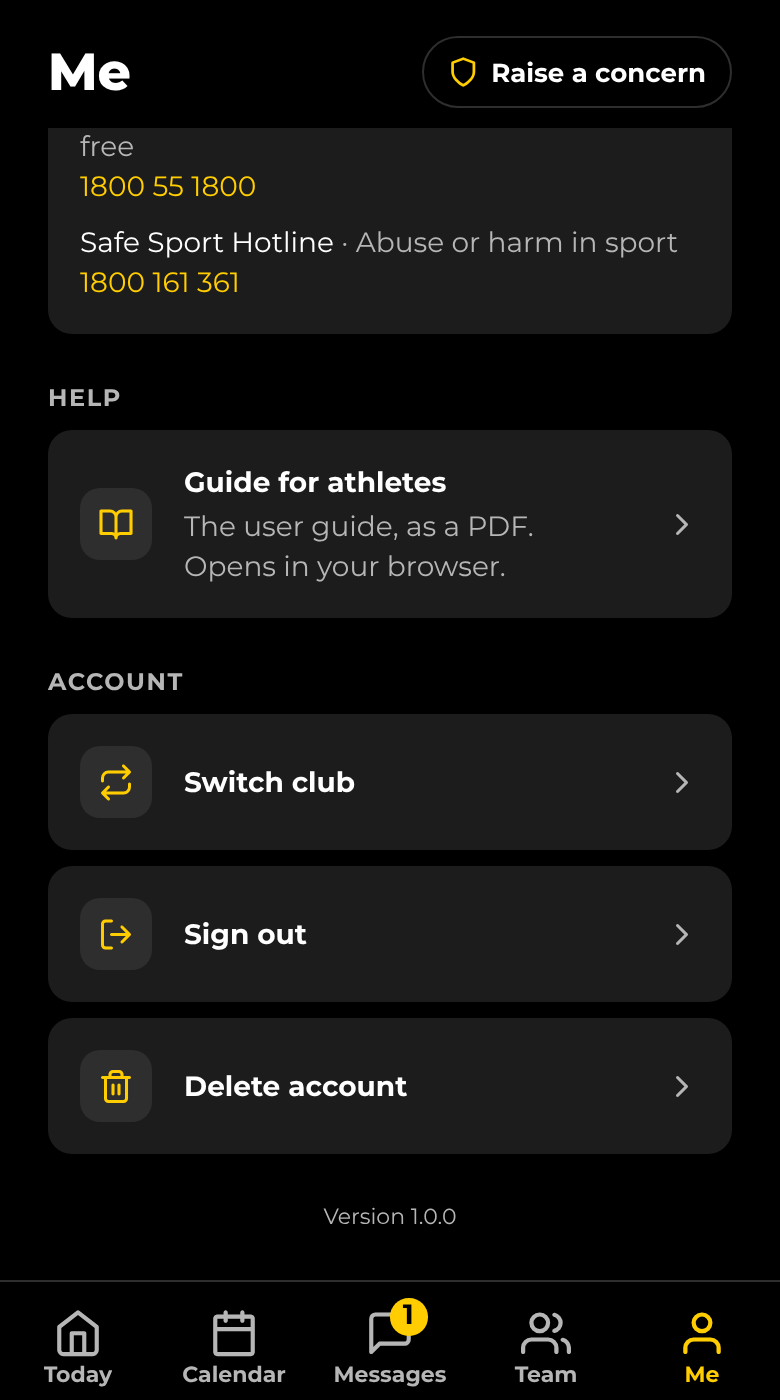
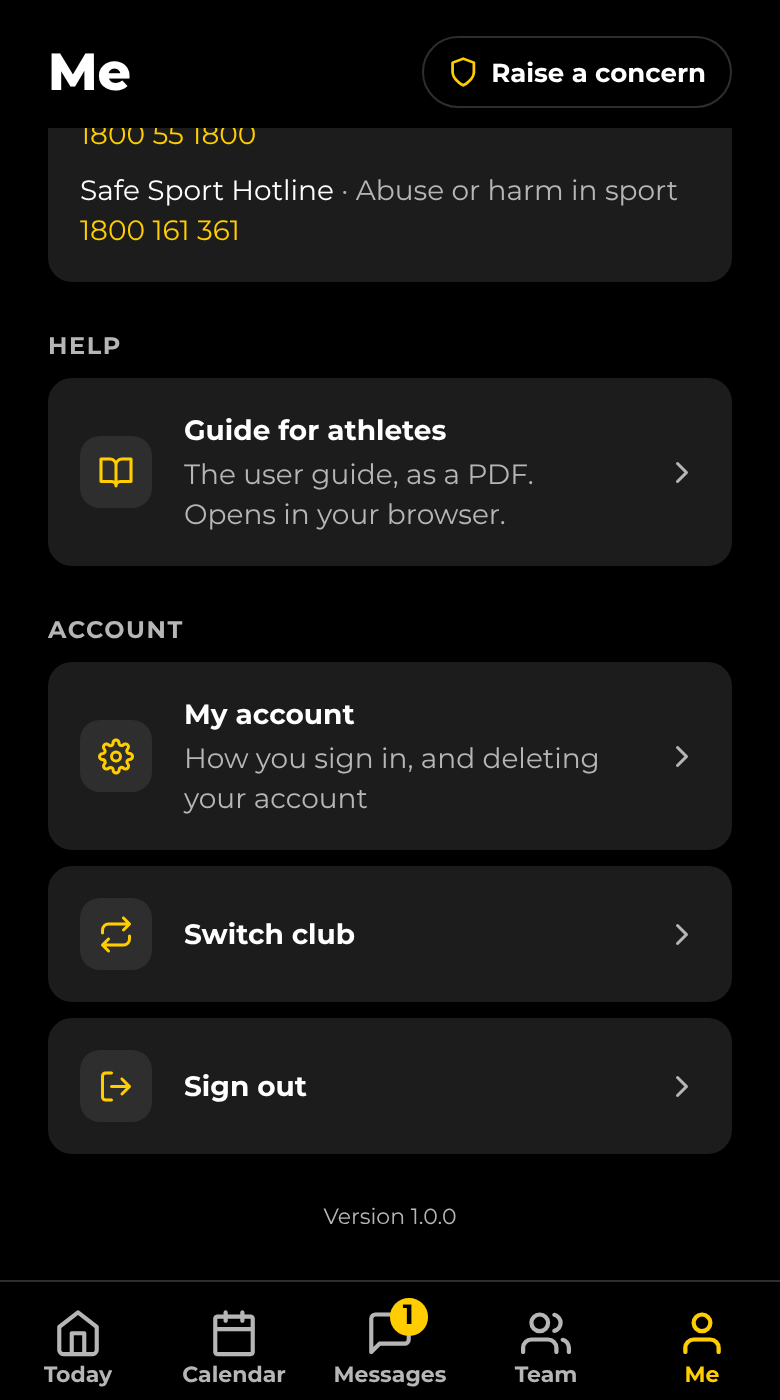
Move Delete account into a My account screen on the Me tab
Delete account looked like Switch club and Sign out and sat right below
them, so it was easy to tap by mistake. The Me tab's Account section now
starts with My account (how you sign in, and the club), and Delete my
account sits alone at the bottom of that screen as a red outlined button.
It still opens the existing delete screen, which asks again.

Claude-Session: https://claude.ai/code/session_019HSmiAKrtRanmxFX6mF7TR

diff --git a/src/__tests__/account-screens.test.tsx b/src/__tests__/account-screens.test.tsx
@@ -1,6 +1,6 @@
 /**
- * The member's own screens: Your details (src/app/my-details.tsx), Delete
- * account (delete-account.tsx), the volunteer exemption declaration
+ * The member's own screens: Your details (src/app/my-details.tsx), My account
+ * (my-account.tsx), Delete account (delete-account.tsx), the volunteer exemption declaration
  * (declaration.tsx), the declaration for a lodged Working With Children
  * Check application (wwcc-application.tsx) and their personal tasks (tasks/index.tsx, new.tsx,
  * [id].tsx with components/task-form.tsx). From "Your preferred name", "Your
@@ -18,6 +18,7 @@ import { fireEvent, screen } from 'expo-router/testing-library';
 
 import DeclarationScreen from '@/app/declaration';
 import DeleteAccountScreen from '@/app/delete-account';
+import MyAccountScreen from '@/app/my-account';
 import MyDetailsScreen from '@/app/my-details';
 import EditTaskScreen from '@/app/tasks/[id]';
 import TasksScreen from '@/app/tasks/index';
@@ -202,6 +203,49 @@ describe('your details', () => {
     await settle();
     expect(screen.getByText('Preferred name is too long.')).toBeTruthy();
     expect(back).not.toHaveBeenCalled();
+  });
+});
+
+// ---------------------------------------------------------------------------
+// My account: how the member signs in, and the only way to Delete account from
+// the Me tab, set apart from Switch club and Sign out.
+
+describe('my account', () => {
+  const withSignIn = (who: Persona, app_metadata: Record<string, unknown>): Persona => ({
+    ...who,
+    session: { ...who.session!, user: { ...who.session!.user, app_metadata } },
+  });
+
+  async function open(who: Who) {
+    await openScreen(who, { 'my-account': MyAccountScreen }, '/my-account');
+  }
+
+  it('names the account they sign in with, and the club', async () => {
+    await open(withSignIn(personas.coach, { provider: 'google', providers: ['google'] }));
+    expect(screen.getByText('Signed in with')).toBeTruthy();
+    expect(screen.getByText(`Google · ${personas.coach.session!.user.email}`)).toBeTruthy();
+    expect(screen.getByText('Club')).toBeTruthy();
+    expect(screen.getByText('Sample Club')).toBeTruthy();
+  });
+
+  it('says Apple for an Apple sign-in', async () => {
+    await open(withSignIn(personas.athlete, { provider: 'apple', providers: ['apple'] }));
+    expect(screen.getByText(`Apple · ${personas.athlete.session!.user.email}`)).toBeTruthy();
+  });
+
+  it('shows just the email when Supabase doesn’t say which account', async () => {
+    await open('guardian');
+    expect(screen.getByText(personas.guardian.session!.user.email!)).toBeTruthy();
+  });
+
+  it('opens the delete screen from Delete my account, deleting nothing itself', async () => {
+    await open('athlete');
+    expect(screen.getByText(/^Removes your account for good\. You.ll see what is deleted and confirm/)).toBeTruthy();
+    await fireEvent.press(screen.getByText('Delete my account'));
+    expect(push).toHaveBeenCalledWith('/delete-account');
+    await settle();
+    expect(rpcNames()).not.toContain('delete_my_account');
+    expect(signOut()).not.toHaveBeenCalled();
   });
 });
 

diff --git a/src/app/my-account.tsx b/src/app/my-account.tsx
@@ -1,0 +1,65 @@
+import { router } from 'expo-router';
+import { StyleSheet, View } from 'react-native';
+
+import { Screen } from '@/components/screen';
+import { ThemedText } from '@/components/themed-text';
+import { Button, Card } from '@/components/ui';
+import { Spacing } from '@/constants/theme';
+import { useAuth } from '@/lib/auth';
+import { useClub } from '@/lib/club';
+import { signInMethod } from '@/lib/sign-in';
+
+/**
+ * My account, from the Me tab: how the member signs in, and the way to delete
+ * their account. Delete sits here, alone at the bottom in red, rather than on
+ * the Me tab beside Switch club and Sign out, where it could be tapped for one
+ * of them. Pressing it opens the delete screen, which explains what is removed
+ * and asks again before anything happens.
+ */
+export default function MyAccountScreen() {
+  const club = useClub();
+  const { session } = useAuth();
+  const method = signInMethod(session?.user);
+  const email = session?.user.email;
+
+  return (
+    <Screen>
+      <Card>
+        <ThemedText type="small" themeColor="textSecondary">
+          Signed in with
+        </ThemedText>
+        <ThemedText>
+          {[method, email].filter(Boolean).join(' · ') || 'Your sign-in account'}
+        </ThemedText>
+      </Card>
+      <Card>
+        <ThemedText type="small" themeColor="textSecondary">
+          Club
+        </ThemedText>
+        <ThemedText>{club.name}</ThemedText>
+      </Card>
+
+      <View style={styles.danger}>
+        <Button
+          title="Delete my account"
+          variant="dangerOutline"
+          onPress={() => router.push('/delete-account')}
+        />
+        <ThemedText type="small" themeColor="textSecondary" style={styles.note}>
+          Removes your account for good. You’ll see what is deleted and confirm before
+          anything happens.
+        </ThemedText>
+      </View>
+    </Screen>
+  );
+}
+
+const styles = StyleSheet.create({
+  danger: {
+    marginTop: Spacing.five,
+    gap: Spacing.two,
+  },
+  note: {
+    textAlign: 'center',
+  },
+});

diff --git a/src/__tests__/home-states.test.tsx b/src/__tests__/home-states.test.tsx
@@ -983,14 +983,29 @@ describe('the to-do list', () => {
 // Me, and the links at the foot of the one screen
 
 describe('Me', () => {
-  it('opens Your details, Your tasks and Delete account', async () => {
+  it('opens Your details, Your tasks and My account', async () => {
     await openMe('athlete');
     await fireEvent.press(screen.getByText('Your details'));
     expect(push).toHaveBeenCalledWith('/my-details');
     await fireEvent.press(screen.getByText('Your tasks'));
     expect(push).toHaveBeenCalledWith('/tasks');
-    await fireEvent.press(screen.getByText('Delete account'));
-    expect(push).toHaveBeenCalledWith('/delete-account');
+    await fireEvent.press(screen.getByText('My account'));
+    expect(push).toHaveBeenCalledWith('/my-account');
+  });
+
+  // Delete account looked like Switch club and Sign out, right below them, so
+  // it was easy to tap by mistake (Matt, 26 November 2026). It lives inside My
+  // account now, and My account comes first.
+  it('keeps Delete account off the Me tab, with My account above Switch club and Sign out', async () => {
+    await openMe('athlete');
+    expect(screen.queryByText('Delete account')).toBeNull();
+    expect(screen.queryByText('Delete my account')).toBeNull();
+    // Found in screen order.
+    const titles = screen
+      .getAllByText(/^(My account|Switch club|Sign out)$/)
+      .map((node) => node.props.children);
+    expect(titles).toEqual(['My account', 'Switch club', 'Sign out']);
+    expect(screen.getByText('How you sign in, and deleting your account')).toBeTruthy();
   });
 
   it('signs out', async () => {

diff --git a/src/components/ui.tsx b/src/components/ui.tsx
@@ -99,11 +99,16 @@ export function Button({
   onPress: () => void;
   busy?: boolean;
   disabled?: boolean;
-  variant?: 'primary' | 'secondary' | 'danger';
+  /**
+   * `dangerOutline` is red text in a red outline: the way into something that
+   * can't be undone, set apart so it isn't tapped for an everyday option.
+   */
+  variant?: 'primary' | 'secondary' | 'danger' | 'dangerOutline';
 }) {
   const theme = useTheme();
   const primary = variant === 'primary';
   const filled = primary || variant === 'danger';
+  const outline = variant === 'dangerOutline';
   return (
     <Pressable
       accessibilityRole="button"
@@ -116,14 +121,19 @@ export function Button({
             ? theme.accent
             : variant === 'danger'
               ? DANGER
-              : theme.backgroundElement,
+              : outline
+                ? 'transparent'
+                : theme.backgroundElement,
+          ...(outline ? { borderWidth: 1.5, borderColor: DANGER } : null),
           opacity: disabled ? 0.5 : pressed ? 0.7 : 1,
         },
       ]}>
       {busy ? (
         <ActivityIndicator color={filled ? theme.onAccent : theme.text} />
       ) : (
-        <ThemedText type="smallBold" style={filled ? { color: theme.onAccent } : undefined}>
+        <ThemedText
+          type="smallBold"
+          style={filled ? { color: theme.onAccent } : outline ? { color: DANGER } : undefined}>
           {title}
         </ThemedText>
       )}

diff --git a/src/lib/__tests__/sign-in.test.ts b/src/lib/__tests__/sign-in.test.ts
@@ -24,6 +24,7 @@ import {
   revokeAppleSignIn,
   signInWithApple,
   signInWithGoogle,
+  signInMethod,
   usesAppleSignIn,
 } from '@/lib/sign-in';
 import { supabase } from '@/lib/supabase';
@@ -382,5 +383,25 @@ describe('who signed in with Apple', () => {
     [undefined, false],
   ])('%j: %p', (user, expected) => {
     expect(usesAppleSignIn(user as never)).toBe(expected);
+  });
+});
+
+describe('which account a member signs in with, for My account', () => {
+  it.each([
+    [{ app_metadata: { provider: 'apple', providers: ['apple'] } }, 'Apple'],
+    // Apple wins when both are linked: it is the one Apple asks about on delete.
+    [{ app_metadata: { provider: 'google', providers: ['google', 'apple'] } }, 'Apple'],
+    [{ app_metadata: { provider: 'google', providers: ['google'] } }, 'Google'],
+    [{ app_metadata: { provider: 'google' } }, 'Google'],
+    [{ app_metadata: { providers: ['google'] } }, 'Google'],
+    [{ app_metadata: { provider: 'email', providers: ['email'] } }, null],
+    [{ app_metadata: { provider: 'google', providers: 'google' } }, 'Google'],
+    [{ app_metadata: { provider: 'email', providers: 'google' } }, null],
+    [{ app_metadata: {} }, null],
+    [{}, null],
+    [null, null],
+    [undefined, null],
+  ])('%j: %p', (user, expected) => {
+    expect(signInMethod(user as never)).toBe(expected);
   });
 });

diff --git a/src/app/(tabs)/me.tsx b/src/app/(tabs)/me.tsx
@@ -108,13 +108,16 @@ export default function MeScreen() {
       <View style={styles.section}>
         <SectionTitle>Account</SectionTitle>
         <CardGrid gap={Spacing.two}>
+          {/* Delete account lives inside My account, away from Switch club and
+              Sign out, so it can't be tapped for one of them. */}
+          <FeatureCard
+            icon="settings"
+            title="My account"
+            detail="How you sign in, and deleting your account"
+            onPress={() => router.push('/my-account')}
+          />
           <FeatureCard icon="repeat" title="Switch club" onPress={switchClub} />
           <FeatureCard icon="log-out" title="Sign out" onPress={signOut} />
-          <FeatureCard
-            icon="trash-2"
-            title="Delete account"
-            onPress={() => router.push('/delete-account')}
-          />
         </CardGrid>
       </View>
     </Screen>

diff --git a/src/lib/sign-in.ts b/src/lib/sign-in.ts
@@ -134,6 +134,21 @@ export function usesAppleSignIn(
   return meta.provider === 'apple' || (Array.isArray(meta.providers) && meta.providers.includes('apple'));
 }
 
+/**
+ * Which account the member signs in with, for My account: Apple or Google, or
+ * null when Supabase doesn't say (an email sign-in on the test club).
+ */
+export function signInMethod(
+  user: { app_metadata?: { provider?: string; providers?: unknown } } | null | undefined,
+): 'Apple' | 'Google' | null {
+  if (usesAppleSignIn(user)) return 'Apple';
+  const meta = user?.app_metadata;
+  if (meta?.provider === 'google' || (Array.isArray(meta?.providers) && meta.providers.includes('google'))) {
+    return 'Google';
+  }
+  return null;
+}
+
 /** How long the delete screen waits for the revoke before deleting anyway. */
 export const REVOKE_TIMEOUT_MS = 15_000;
 

diff --git a/src/app/_layout.tsx b/src/app/_layout.tsx
@@ -310,6 +310,7 @@ function RootStack() {
             <Stack.Screen name="tasks/new" options={{ title: 'Add a task' }} />
             <Stack.Screen name="tasks/[id]" options={{ title: 'Task' }} />
             <Stack.Screen name="my-details" options={{ title: 'Your details' }} />
+            <Stack.Screen name="my-account" options={{ title: 'My account' }} />
           </Stack.Protected>
           <Stack.Screen name="delete-account" options={{ title: 'Delete account' }} />
           {/* Reports admins share with committee members who have a current check, read only. */}

diff --git a/src/__tests__/route-guards-roles.test.tsx b/src/__tests__/route-guards-roles.test.tsx
@@ -317,6 +317,7 @@ const EVERYONE_SIGNED_IN = [
   'tasks/new',
   'tasks/[id]',
   'my-details',
+  'my-account',
   'delete-account',
 ];
 

diff --git a/docs/user-guide.md b/docs/user-guide.md
@@ -673,11 +673,12 @@ Me holds your own things, whatever your role:
 - **Your tasks** (see [Your own tasks](#your-own-tasks)).
 - **Safety**: **Raise a concern**, then the club's safeguarding contacts and the helplines.
 - **Help**: the user guide for each of your roles (see [The user guides](#the-user-guides)).
-- **Account**: **Switch club**, **Sign out** and **Delete account**.
+- **Account**: **My account** (how you sign in, and deleting your account), then **Switch club**
+  and **Sign out**.
 
 Someone with no fourth tab, such as a guest, finds **My squads and teams** here too.
 
-<img src="user-guide/me-safety.png" width="210" alt="The end of the Me tab: helplines under Safety, the guide for the member's role under Help, then Switch club, Sign out and Delete account under Account">
+<img src="user-guide/me-safety.png" width="210" alt="The end of the Me tab: helplines under Safety, the guide for the member's role under Help, then My account, Switch club and Sign out under Account">
 
 ### The user guides
 
@@ -1306,8 +1307,10 @@ looked into or Closed. Quote the reference if you talk to the club about it.
 
 ### Deleting your account
 
-**Delete account**, under **Account** in the **Me** tab, permanently deletes your account at the club
-you're in: your profile, your squad and team places, guardian links, your personal tasks and your
+**My account**, under **Account** in the **Me** tab, shows the Apple or Google account you sign in
+with and your club. **Delete my account** sits on its own at the bottom of it, in red, so it can't
+be tapped by mistake for **Switch club** or **Sign out**. It opens the **Delete account** screen,
+which permanently deletes your account at the club you're in: your profile, your squad and team places, guardian links, your personal tasks and your
 messages inbox. Messages you sent to a group stay with the people who received them. Tap
 **Delete my account**, then **Delete my account permanently** to confirm. If you signed in with
 Apple and you're on an iPhone or iPad, Apple asks you to confirm once more with Face ID, Touch ID or your passcode; that also stops
@@ -1333,7 +1336,7 @@ links another parent or guardian. Deleting your account doesn't
 change your PlayHQ registration or club membership, or your account at any other club in
 FirstPass HQ.
 
-<img src="user-guide/delete-account.png" width="210" alt="Delete account screen">
+<img src="user-guide/my-account.png" width="210" alt="My account: the account you sign in with and your club, then Delete my account in red at the bottom"> <img src="user-guide/delete-account.png" width="210" alt="Delete account screen">
 
 <div style="page-break-before: always"></div>
 
